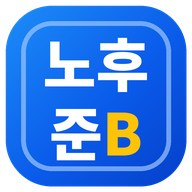
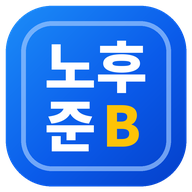
Add files via upload

Changed region(s): [[0.2188, 0.5, 0.75, 0.8438], [0.2188, 0.1875, 0.7812, 0.5]]

diff --git a/index.html b/index.html
@@ -4,8 +4,8 @@
 <meta charset="UTF-8">
 <meta name="viewport" content="width=device-width, initial-scale=1.0">
 <title>노후연금 시뮬레이터</title>
[4 lines of base64/hex data omitted]
 <link rel="manifest" href="manifest.json">
 <meta name="theme-color" content="#0A5BEA">
 <meta name="apple-mobile-web-app-capable" content="yes">
@@ -41,7 +41,7 @@
 html{scroll-behavior:smooth}
 body{font-family:-apple-system,BlinkMacSystemFont,"Segoe UI",Helvetica,Arial,sans-serif;background:var(--bg3);color:var(--text);font-size:14px;line-height:1.6;min-height:100vh}
 .hero{background:var(--bg);border-bottom:.5px solid var(--border);padding:32px 24px 28px;text-align:center}
-.hero h1{font-size:26px;font-weight:500;color:var(--text);margin-bottom:6px;letter-spacing:-.02em}
+.hero h1{font-size:clamp(15px,5.6vw,26px);font-weight:500;color:var(--text);margin-bottom:6px;letter-spacing:-.02em;white-space:nowrap}
 .hero-sub{font-size:13px;color:var(--text3)}
 .hero-ver{display:inline-block;font-size:11px;font-weight:500;background:var(--info-bg);color:var(--info-text);border:.5px solid var(--info-border);padding:2px 10px;border-radius:20px;margin-left:8px;vertical-align:middle}
 .page-header{background:var(--bg);border-bottom:0.5px solid var(--border);padding:14px 24px;display:flex;align-items:center;gap:12px;position:sticky;top:0;z-index:100}
@@ -288,7 +288,7 @@ window.addEventListener("load",function(){
 
 
 <div class="hero">
-  <h1><svg viewBox="0 0 100 100" width="38" height="38" aria-hidden="true" style="vertical-align:middle;margin-right:10px;display:inline-block"><defs><linearGradient id="planbGrad" x1="0" y1="0" x2="1" y2="1"><stop offset="0" stop-color="#1D90F9"/><stop offset=".55" stop-color="#0A5BEA"/><stop offset="1" stop-color="#043DC7"/></linearGradient></defs><rect x="3" y="3" width="94" height="94" rx="24" fill="url(#planbGrad)"/><rect x="11" y="11" width="78" height="78" rx="16" fill="none" stroke="#9CC6FF" stroke-width="2.5" opacity=".7"/><text x="50" y="45" text-anchor="middle" font-family="-apple-system,'Apple SD Gothic Neo','Malgun Gothic',sans-serif" font-size="30" font-weight="800" fill="#fff">노후</text><text x="50" y="81" text-anchor="middle" font-family="-apple-system,'Apple SD Gothic Neo','Malgun Gothic',sans-serif" font-size="30" font-weight="800"><tspan fill="#fff">준</tspan><tspan fill="#FDC307">B</tspan></text></svg>노후자금 시뮬레이터<span class="hero-ver">V2.8</span></h1>
+  <h1><svg viewBox="0 0 100 100" width="38" height="38" aria-hidden="true" style="vertical-align:middle;margin-right:10px;display:inline-block"><defs><linearGradient id="planbGrad" x1="0" y1="0" x2="1" y2="1"><stop offset="0" stop-color="#1D90F9"/><stop offset=".55" stop-color="#0A5BEA"/><stop offset="1" stop-color="#043DC7"/></linearGradient></defs><rect x="3" y="3" width="94" height="94" rx="24" fill="url(#planbGrad)"/><rect x="11" y="11" width="78" height="78" rx="16" fill="none" stroke="#9CC6FF" stroke-width="2.5" opacity=".7"/><text y="45" text-anchor="middle" font-family="-apple-system,'Apple SD Gothic Neo','Malgun Gothic',sans-serif" font-size="30" font-weight="800" fill="#fff"><tspan x="36">노</tspan><tspan x="64">후</tspan></text><text y="81" text-anchor="middle" font-family="-apple-system,'Apple SD Gothic Neo','Malgun Gothic',sans-serif" font-size="30" font-weight="800"><tspan x="36" fill="#fff">준</tspan><tspan x="64" fill="#FDC307">B</tspan></text></svg>노후자금 시뮬레이터<span class="hero-ver">V2.8</span></h1>
   <p class="hero-sub">연금·보험·국민연금 통합 수령액 시뮬레이션 — 오프라인 완전독립 버전</p>
 </div>
 